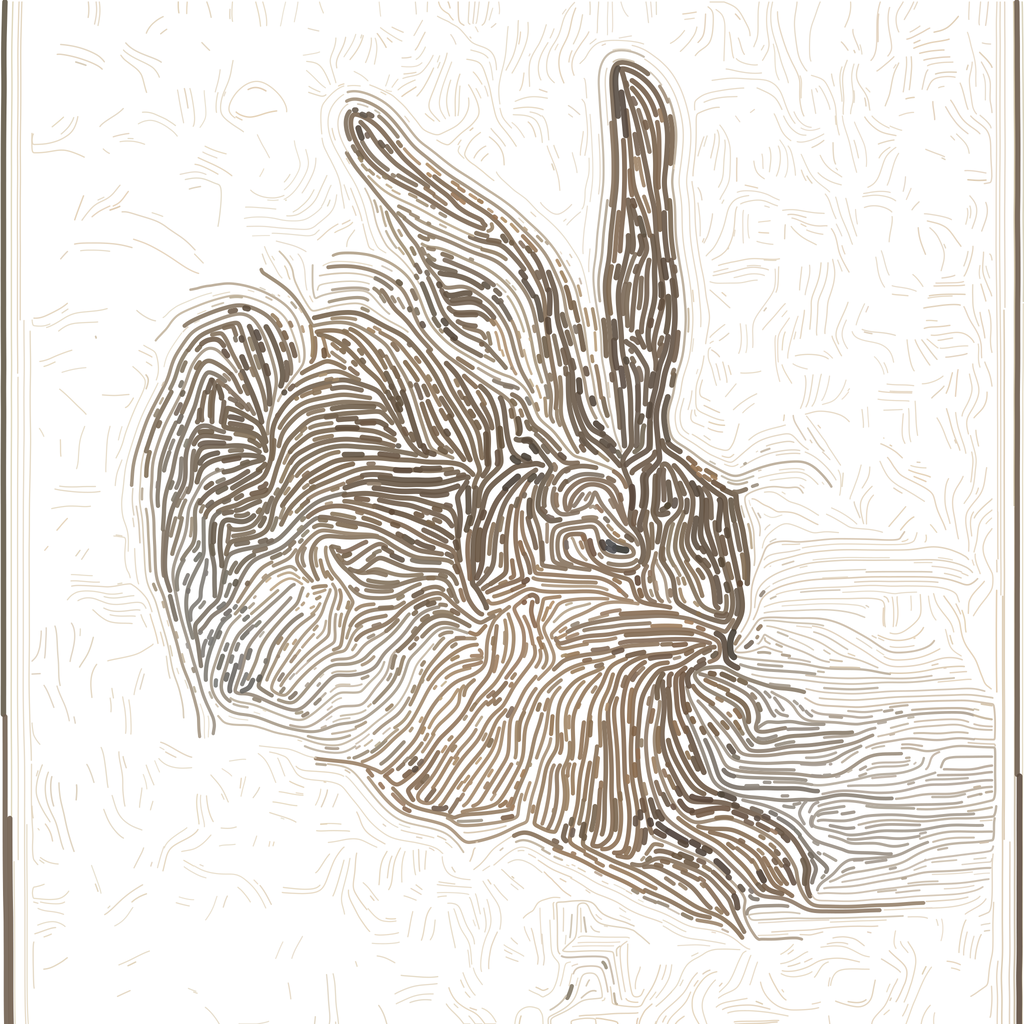
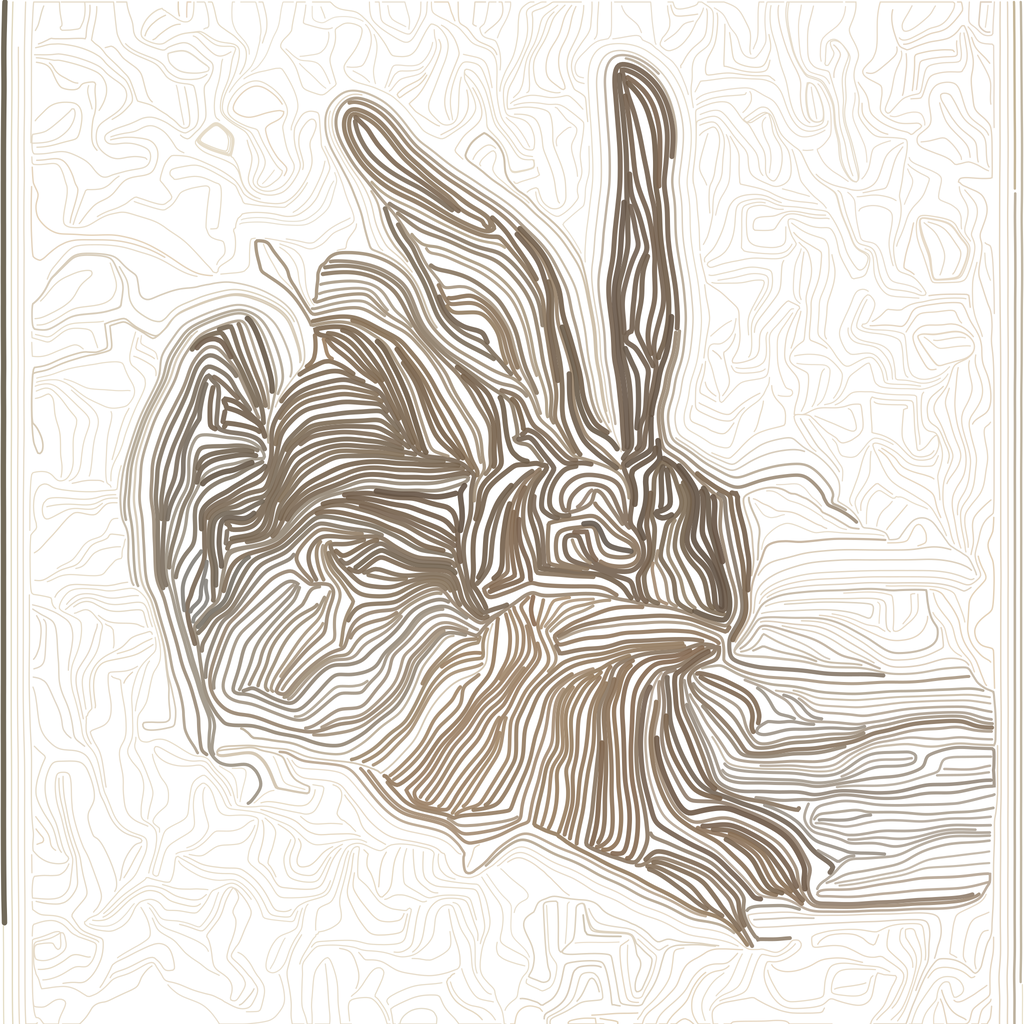
feat: jobard-lefer distance stop and unit-speed steps for longer strokes

diff --git a/README.md b/README.md
@@ -29,8 +29,8 @@ preview, and a GIF where every stroke grows from a dot to its full length.
    $J = G_\sigma * (\nabla I\, \nabla I^T)$. Its minor eigenvector points *along*
    edges; its strength $\sqrt{\lambda_1 - \lambda_2}$ is high where the orientation
    is coherent (a clear edge or texture) and near zero on flat areas or noise.
-   The field is soft-normalized, $F / (|F| + \varepsilon)$, so strokes move fast
-   on strong edges and barely move on noise.
+   The field gives the direction; every step moves a fixed `--eta` px, so a
+   stroke's reach is `--steps × --eta` per direction.
 
 2. **Seeds.** Pick random pixels whose edge strength (Sobel magnitude) is above
    $\min(\tau,\ \text{top 10\%})$, so even low-contrast images get seeds.
@@ -40,10 +40,11 @@ preview, and a GIF where every stroke grows from a dot to its full length.
    every step is aligned with the stroke's current heading, and bilinear sampling
    flips neighbouring vectors to agree before blending.
 
-4. **Spacing.** A 3 px occupancy grid records which stroke passed where. A stroke
-   stops when it enters a cell owned by another stroke, and a seed landing in a
-   taken cell is skipped. Strokes never pile up, early strokes run long, and later
-   ones fill the gaps — `--points` is an upper bound, not the stroke count.
+4. **Spacing** (Jobard–Lefer). A seed starts only if no other stroke is within
+   3 px; a running stroke stops once it comes within 1.5 px of another one.
+   Neighbours can run side by side for long distances without piling up; early
+   strokes run long, later ones fill the gaps — `--points` is an upper bound,
+   not the stroke count.
 
 5. **Color & tone.** Each stroke takes the mean source color along its path, and its
    width follows that color's darkness (dark ≈ 3× base, light ≈ hairline), so the
@@ -63,7 +64,7 @@ julia --project=. -O3 -t 8 main.jl -i input.jpg -o out.svg,out.png,out.gif
 --input, -i INPUT           source image (center-cropped to a square)
 --output, -o OUTPUT         .png / .svg / .gif (comma-separate for several)
 --size, -s S                canvas size in px                    default 512
---points N                  max seeds; taken cells are skipped   default 20000
+--points N                  max seeds; crowded ones are skipped  default 20000
 --tau T                     edge threshold for seeds             default 0.05
 --sigma S                   structure-tensor smoothing (px)      default 5.0
 --steps K                   max steps per direction from seed    default 400
